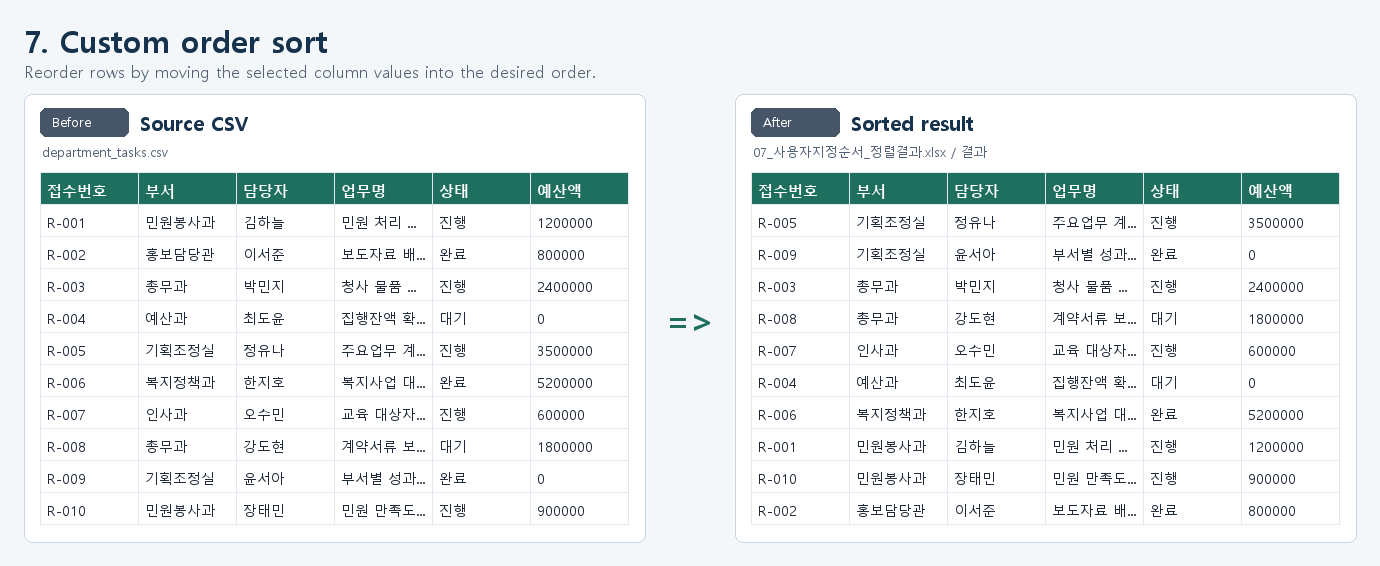
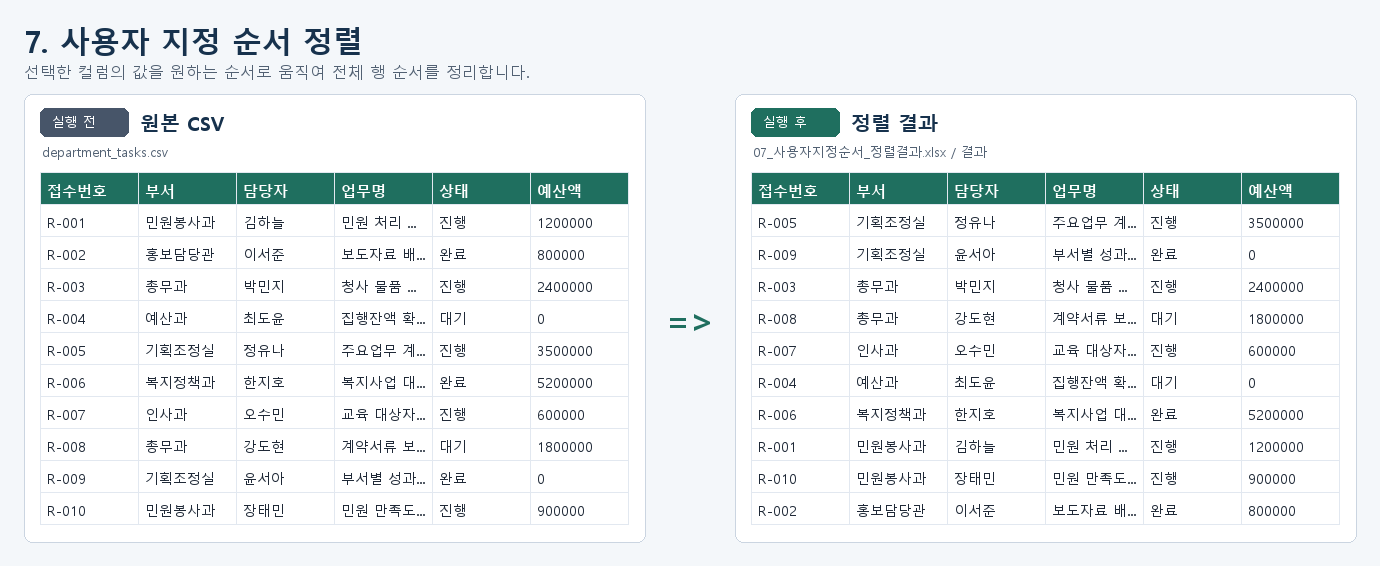
Refresh v1.4 README screenshots

diff --git a/scripts/render_readme_screenshots.py b/scripts/render_readme_screenshots.py
@@ -130,17 +130,17 @@ FEATURE_SHOTS = [
         output_name="feature_06_pivot_summary.png",
     ),
     FeatureShot(
-        title="7. Custom order sort",
-        summary="Reorder rows by moving the selected column values into the desired order.",
+        title="7. 사용자 지정 순서 정렬",
+        summary="선택한 컬럼의 값을 원하는 순서로 움직여 전체 행 순서를 정리합니다.",
         before=TableSpec(
             SAMPLES / "07_organization_order" / "department_tasks.csv",
-            "Before",
-            "Source CSV",
+            "실행 전",
+            "원본 CSV",
         ),
         after=TableSpec(
             DEMO_OUTPUT / "07_사용자지정순서_정렬결과.xlsx",
-            "After",
-            "Sorted result",
+            "실행 후",
+            "정렬 결과",
             "결과",
         ),
         output_name="feature_07_custom_order_sort.png",
